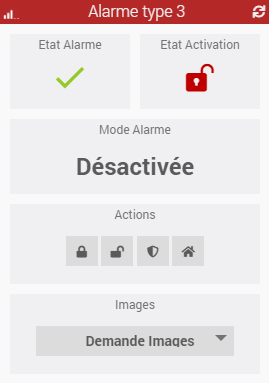
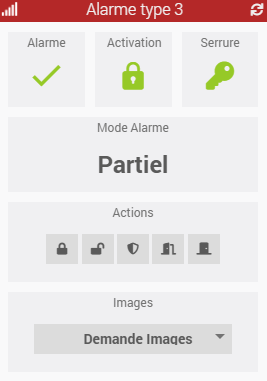
Update docs

diff --git a/verisure/fr_FR/index.md b/verisure/fr_FR/index.md
@@ -159,12 +159,19 @@ Par défaut, les commandes ne sont pas affichées sur le widget. L'objectif est 
 >Attention, les états ne remontent pas en temps réel (impossible à l'heure actuel à cause de Versiure). Il vous faudra faire un refresh du statut de l'alarme via un scénario pour les actualiser ou attendre le cron30. Une personnalisation du cron (5, 10, 15, 30...) arrivera dans un second temps. **Attention toutefois à ne pas éxecuter trop de requêtes vers les serveurs Verisure sous peine de blacklistage.** 
 
 
+## Devices alarme type 3
+
+Pour les alarmes de type 3 (**et uniquement type 3 !**), le plugin va créer les commandes associées aux devices de l'alarme :
+-  **Serrure connectée**      --> état / ouverture / fermeture
+
+
 # Dashboard
 
 Le plugin inclut un dashboard qui permet de :
 -   Connaitre le statut de l'alarme (alarme type 1 2 & 3)
 -   Connaitre l'état de l'alarme (alarme type 1 2 & 3)
--   Connaitre le mode e l'alarme (alarme type 1 2 & 3)
+-   Connaitre le mode de l'alarme (alarme type 1 2 & 3)
+-   Connaitre létat de la serrure connectée (alarme type 3)
 -   Activer le mode total de l'alarme (alarme type 1 2 & 3)
 -   Activer le mode nuit de l'alarme (alarme type 1)
 -   Activer le mode jour de l'alarme (alarme type 1)
@@ -172,6 +179,7 @@ Le plugin inclut un dashboard qui permet de :
 -   Activer le mode partiel de l'alarme (alarme type 2 & 3)
 -   Désactiver l'alarme (alarme type 1 2 & 3)
 -   Rafraichir le statut de l'alarme (alarme type 1 2 & 3)
+-   Ouvrir / fermer la serrure connectée (alarme type 3)
 -   Demander la prise d'une photo depuis un capteur de mouvement compatible (alarme type 1 2 & 3)
 -   Afficher les informations de certains devices comme la température, l'humidité, ou l'état d'ouverture (**!!! UNIQUEMENT alarme type 2 !!!**)
 -   Afficher le niveau de la qualité du réseau 3G/4G de l'alarme (alarme type 1 & 3)

diff --git a/verisure/fr_FR/changelog.md b/verisure/fr_FR/changelog.md
@@ -12,6 +12,13 @@ pluginId: verisure
 **Remarque** : en cas de mise à jour non listée ici, c'est que celle-ci ne comporte que des changements mineurs du type documentation ou corrections de bugs mineurs.
 
 
+# 2024-12-31
+
+Ajout des fonctions suivantes :
+ - Prise en compte des serrures connectées pour les alarmes de dernière génération (type 3)
+ - Optimisation du code (création des commandes)
+
+
 # 2024-12-13
 
 Corrections suivantes :

diff --git a/parcelTracking/fr_FR/changelog.md b/parcelTracking/fr_FR/changelog.md
@@ -12,6 +12,12 @@ pluginId: parcelTracking
 **Remarque** : en cas de mise à jour non listée ici, c'est que celle-ci ne comporte que des changements mineurs du type documentation ou corrections de bugs mineurs.
 
 
+# 2024-12-31
+
+Ajout des fonctions suivantes :
+ - Ajout des tags #url# et #location# pour les notifications et les scénarios
+
+
 # 2024-10-17
 
 Ajout des fonctions suivantes :
